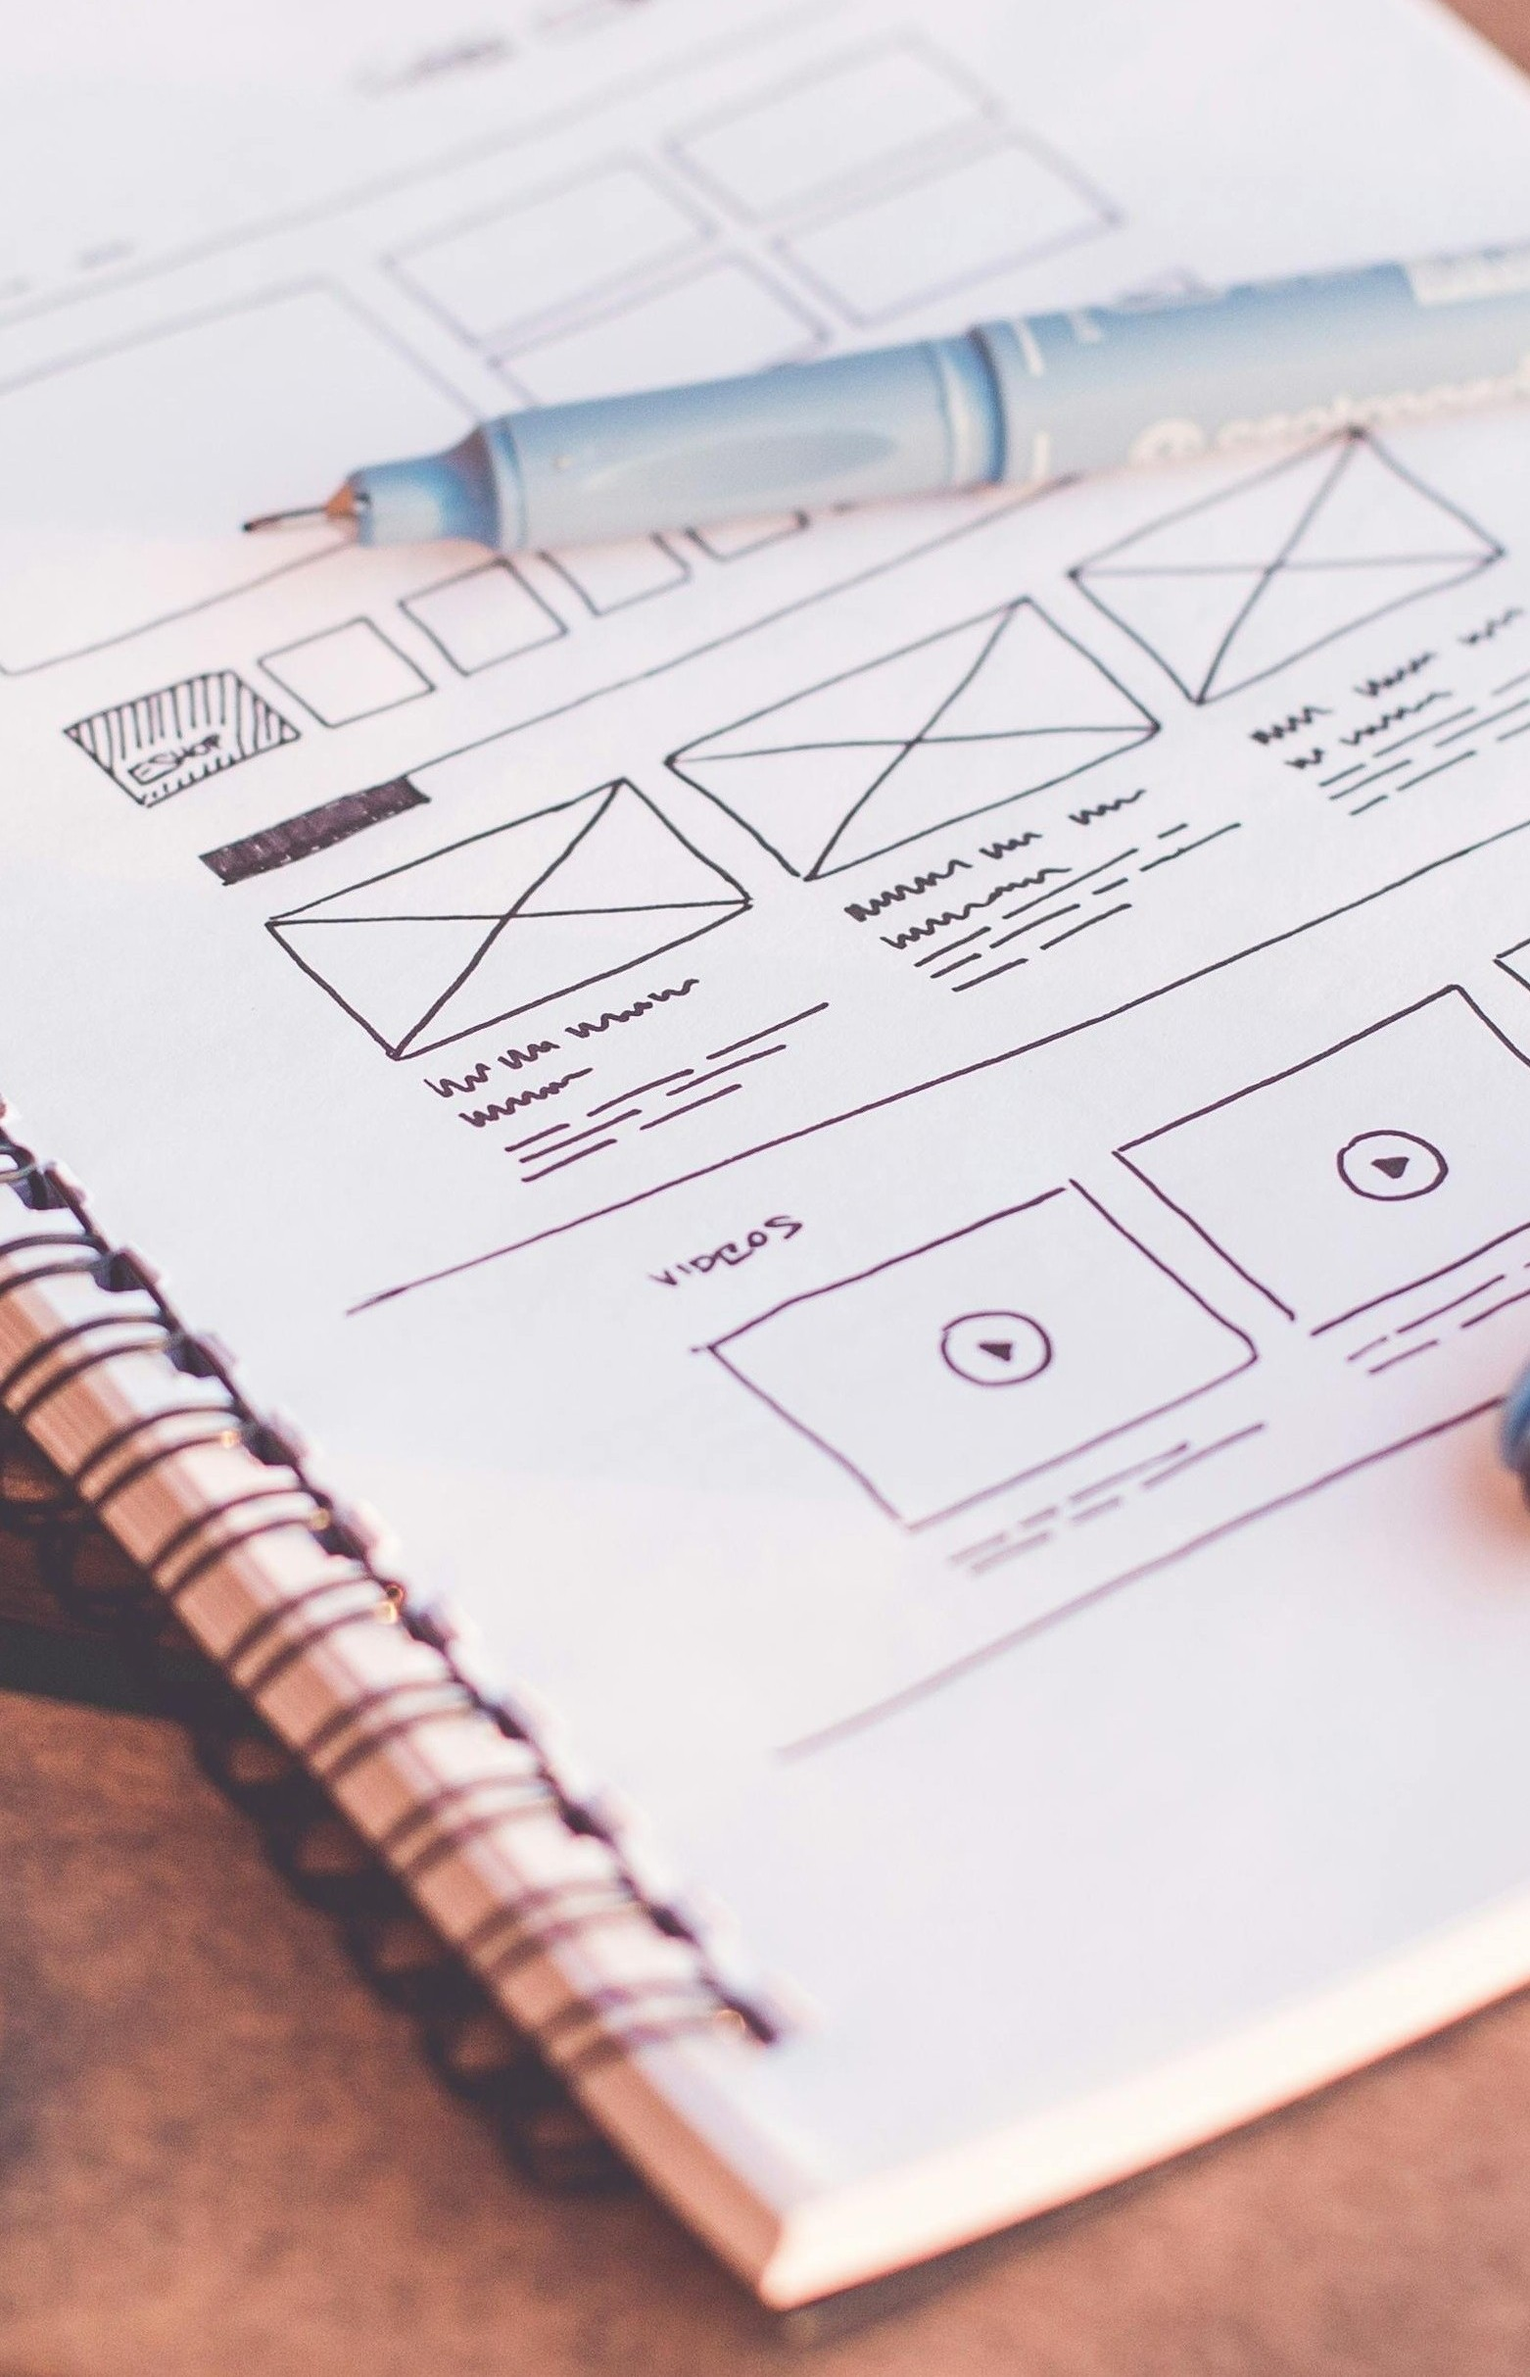
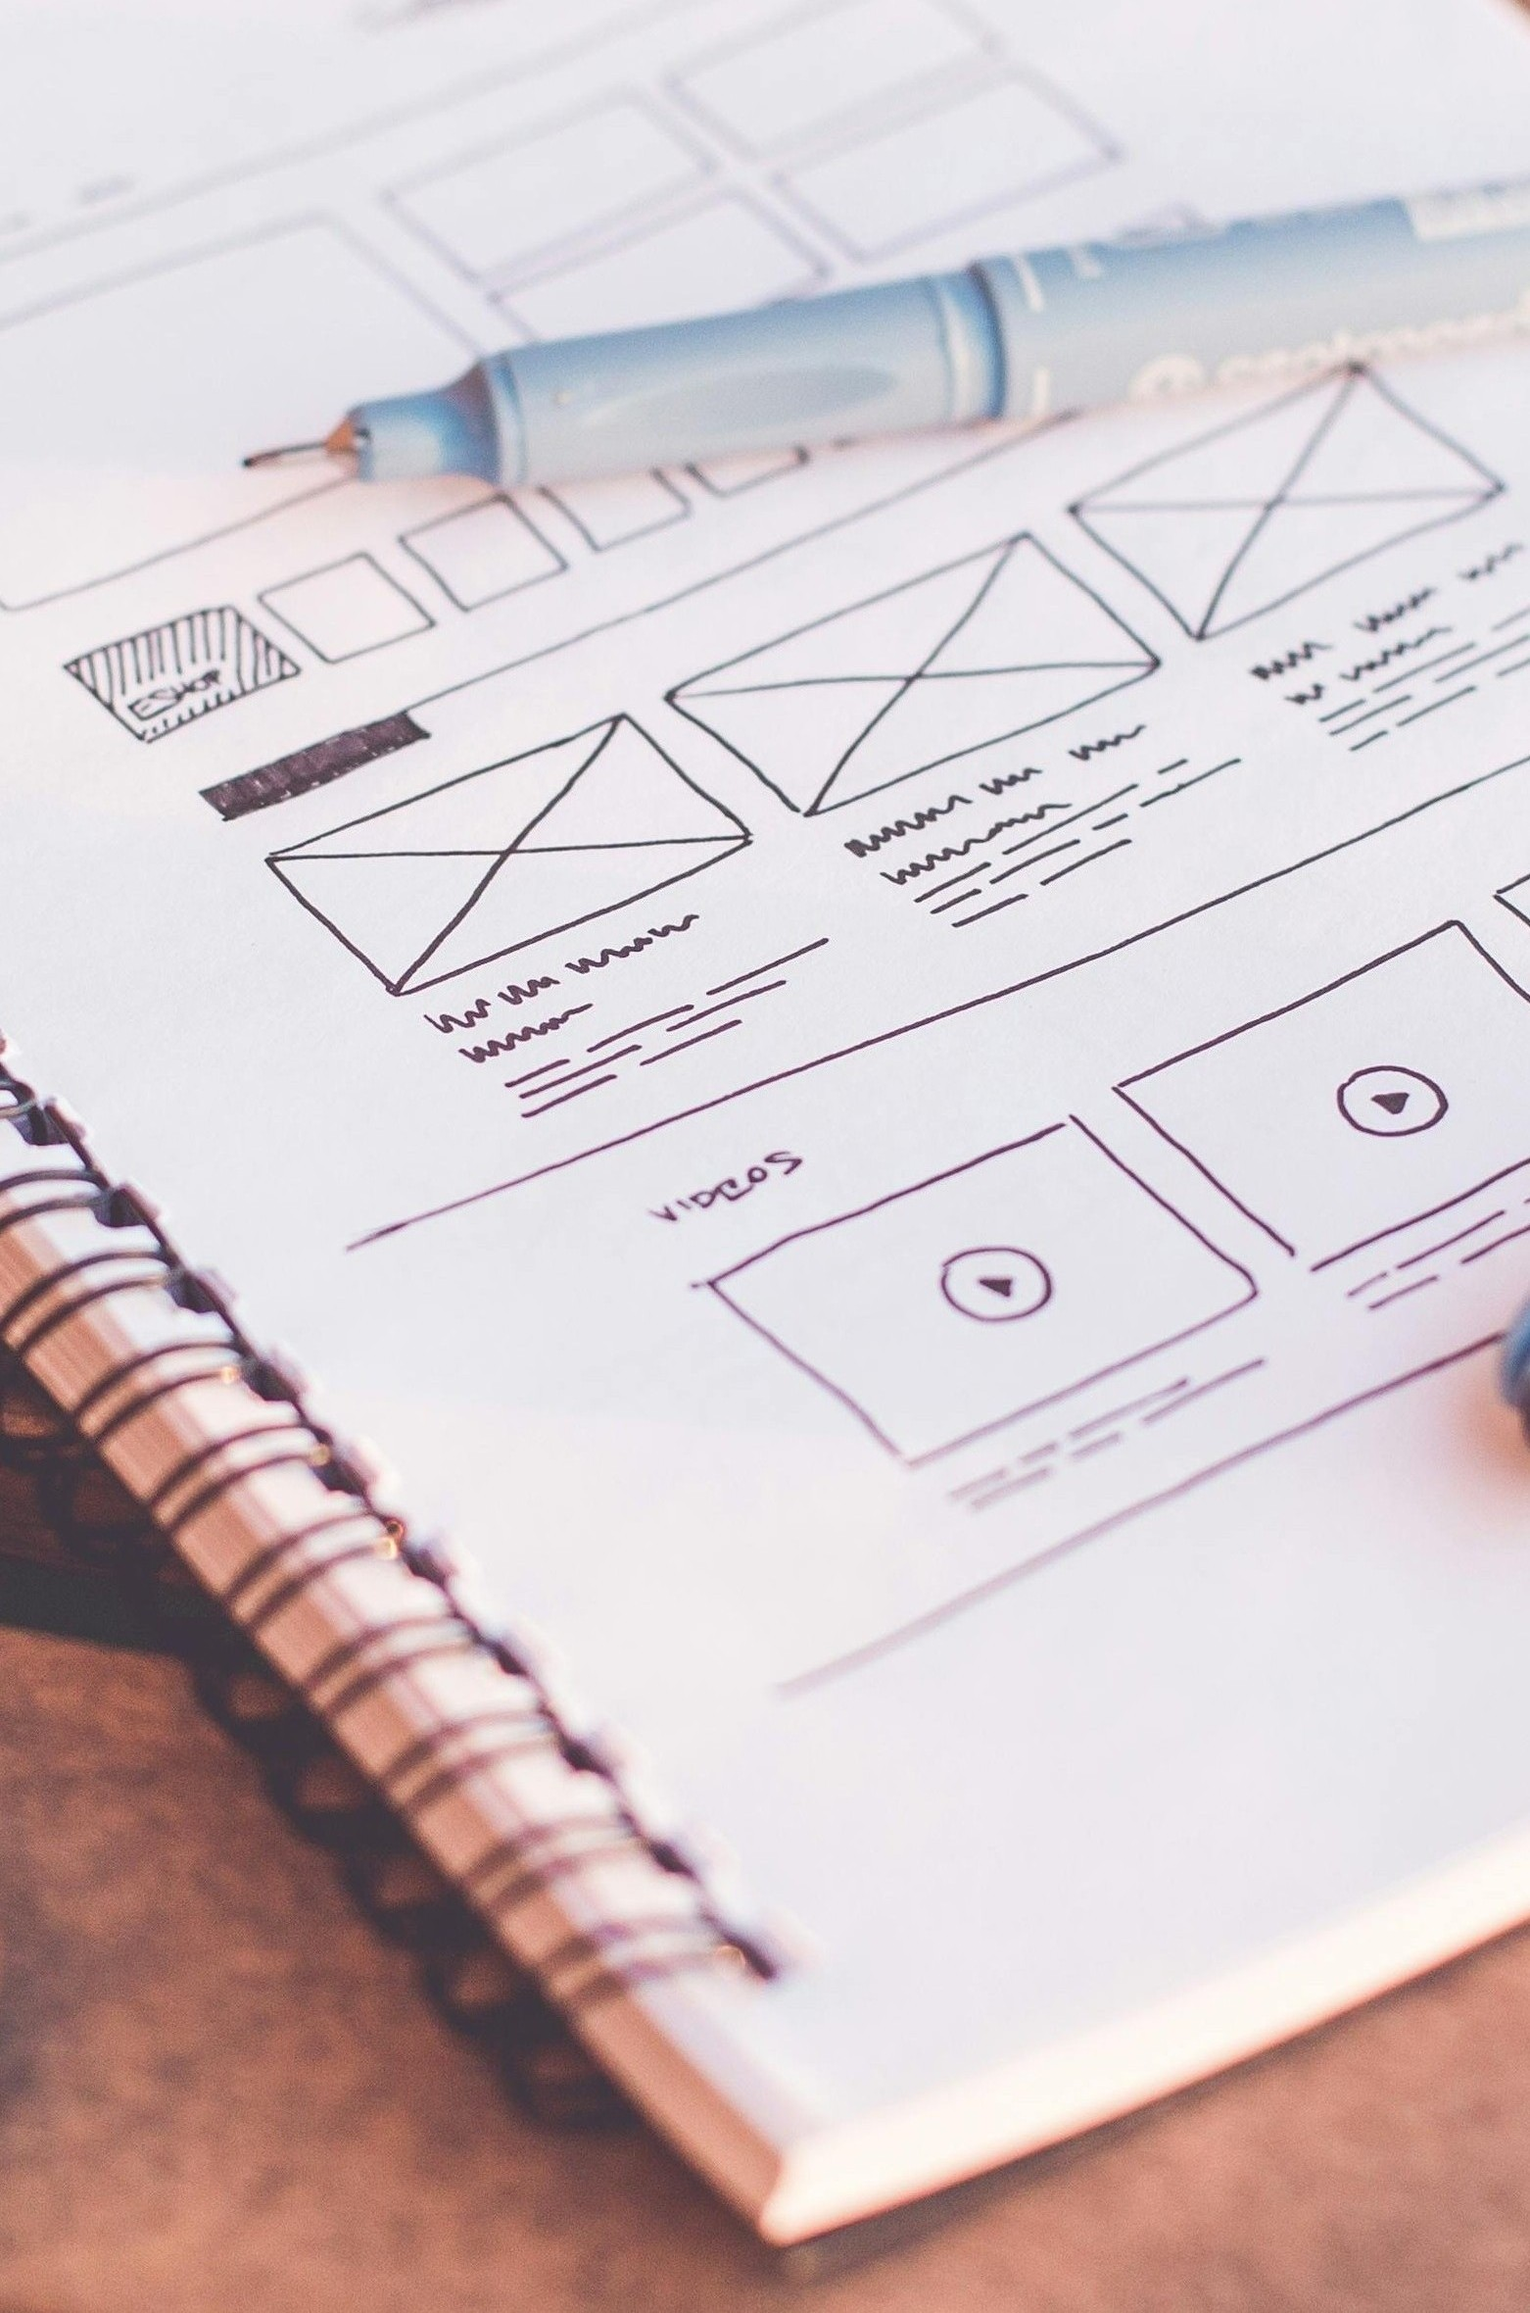
changed thumbnails

diff --git a/index.html b/index.html
@@ -131,8 +131,9 @@
         <div class="buttons">
             <button onclick="window.location.href='ui-ux.html'">UI/UX</button>
             <button onclick="window.location.href='mockups.html'">Branding</button>
-            <button onclick="window.location.href='social-media.html'">Social Media/Marketing</button>
-            <button onclick="window.location.href='editorial-designs.html'">Editorial Designs</button>
+            <button onclick="window.location.href='social-media.html'">Social Media</button>
+            <button onclick="window.location.href='logo.html'">Logofolio</button>
+            <button onclick="window.location.href='editorial-designs.html'">Email Marketing</button>
         </div>
     </div>
 </section>
@@ -624,9 +625,9 @@
     
                       <div class="item">
                         <a href="social-media.html">
-                          <div class="text-center">Social Media & Marketing</div><br>
+                          <div class="text-center" style="color: aliceblue;">Social Media</div><br>
                           <img
-                            src="assets/images/portfolio/social-media.jpg"
+                            src="assets/images/portfolio/media-thumbnail.png"
                             alt="portfolio image" />
                           <div class="isotope-overlay">
                             <span>View projects</span>
@@ -636,10 +637,10 @@
                       
                       
                       <div class="item">
-                        <a href="print-media.html">
-                          <div class="text-center">Print Media</div><br>
+                        <a href="logo.html">
+                          <div class="text-center" style="color: aliceblue;">Logofolio</div><br>
                           <img
-                            src="assets/images/portfolio/flyers-brochure.jpg"
+                            src="assets/images/portfolio/logo-thumbnail.png"
                             alt="portfolio image" />
                           <div class="isotope-overlay">
                             <span>View projects</span>
@@ -657,7 +658,7 @@
     
                       <div class="item">
                         <a href="ui-ux.html">
-                          <div class="text-center">UI / UX</div>
+                          <div class="text-center" style="color: aliceblue;">UI / UX</div>
                           <br>
                           <img
                             src="assets/images/portfolio/uiux.jpeg"
@@ -675,11 +676,11 @@
     
                     <div class="col-sm-4">
                       <div class="item">
-                        <div class="text-center">Editorial Designs</div>
+                        <div class="text-center" style="color: aliceblue;">Email Marketing</div>
                         <br>
                         <a href="editorial-designs.html">
                           <img
-                            src="assets/images/portfolio/newsletters.jpg"
+                            src="assets/images/portfolio/editorial-design-thumbnail.png"
                             alt="portfolio image" />
                           <div class="isotope-overlay">
                             <span>View projects</span>
@@ -689,10 +690,10 @@
                       <!-- /.item -->
                       <div class="item">
                         <a href="mockups.html">
-                          <div class="text-center">Branding</div>
+                          <div class="text-center" style="color: aliceblue;">Branding</div>
                           <br>
                           <img
-                            src="assets/images/portfolio/mokcups-img.webp"
+                            src="assets/images/portfolio/branding-thumbail.png"
                             alt="portfolio image" />
                           <div class="isotope-overlay">
                             <span>View projects</span>

diff --git a/social-media.html b/social-media.html
@@ -253,7 +253,7 @@
     </div>
     <section class="section" id="posts">
       <div>
-        <h1 class="section-title">Instagram / Facebook Posts</h1>
+        <h1 class="section-title">Social Media Posts</h1>
         <br />
   
         <div class="portfolio-grid">
@@ -297,7 +297,7 @@
 
     <section class="section" id="stories">
       <div>
-        <h1 class="section-title">Digital Ads / posters</h1>
+        <h1 class="section-title">Social Media Stories / Posters</h1>
         <br />
   
         <div class="poster-grid">  
@@ -318,6 +318,14 @@
                 />
               </a>
               </div>
+
+              <div class="portfolio-item">
+                <img
+                  src="assets/images/portfolio/projects/social-media/story/sale-ad.gif"
+                  alt="fashion ad"
+                />
+              </a>
+              </div>
   
               <div class="portfolio-item">
                 <img
@@ -327,17 +335,11 @@
               </a>
               </div>
 
-              <div class="portfolio-item">
-                <img
-                  src="assets/images/portfolio/projects/social-media/story/sale-ad.gif"
-                  alt="fashion ad"
-                />
-              </a>
-              </div>
+              
 
               <div class="portfolio-item">
                 <img
-                  src="assets/images/portfolio/projects/social-media/story/bar-flyer.jpg"
+                  src="assets/images/portfolio/projects/social-media/story/desserts-shop-flyer.jpg"
                   alt="bar ad"
                 />
               </a>
@@ -345,7 +347,7 @@
               
               <div class="portfolio-item">
                 <img
-                  src="assets/images/portfolio/projects/social-media/story/music-party-flyer.png"
+                  src="assets/images/portfolio/projects/social-media/story/hotel-flyer.jpg"
                   alt="concert ad"
                 />
               </a>
@@ -357,7 +359,43 @@
                   alt="perfume ad"
                 />
               </a>
-            </div>    
+            </div>
+            
+            
+
+          <div class="portfolio-item">
+            <img
+              src="assets/images/portfolio/projects/social-media/story/music-party-flyer.png"
+              alt="perfume ad"
+            />
+          </a>
+        </div> 
+
+          <div class="portfolio-item">
+            <img
+              src="assets/images/portfolio/projects/social-media/story/art-flyer.jpg"
+              alt="perfume ad"
+            />
+          </a>
+        </div> 
+
+        <div class="portfolio-item">
+          <img
+            src="assets/images/portfolio/projects/social-media/story/bar-flyer.jpg"
+            alt="perfume ad"
+          />
+        </a>
+      </div> 
+
+        <div class="portfolio-item">
+          <img
+            src="assets/images/portfolio/projects/social-media/story/antique-store-flyer.jpg"
+            alt="perfume ad"
+          />
+        </a>
+      </div> 
+
+        
           </div>
     </section>
 

diff --git a/logo.html b/logo.html
@@ -1,0 +1,55 @@
+<!DOCTYPE html>
+<html lang="en">
+  <head>
+    <meta charset="UTF-8" />
+    <meta name="viewport" content="width=device-width, initial-scale=1.0" />
+    <title>Logofolio</title>
+    <style>
+      /* First two images should fit within the screen */
+      .full-screen {
+        width: 100vw;
+        height: 100vh;
+        object-fit: cover;
+        display: block;
+        margin: 0 auto; /* Center align */
+      }
+
+      /* Container for the scrollable image */
+      .scroll-container {
+        width: 80vw;
+        height: 100vh; /* Full viewport height */
+        overflow-y: auto; /* Enables vertical scrolling */
+        margin: 0 auto;
+      }
+
+      .scroll-container img {
+        width: 80vw;
+        height: auto;
+        display: block;
+      }
+    </style>
+  </head>
+  <body>
+    <!-- First image (fits within screen) -->
+    <img
+      class="full-screen"
+      src="assets/images/portfolio/projects/logofolio/first-img.png"
+      alt="First Image"
+    />
+
+    <!-- GIF (fits within screen) -->
+    <img
+      class="full-screen"
+      src="assets/images/portfolio/projects/logofolio/logo-gif-dark.gif"
+      alt="Logo GIF"
+    />
+
+    <!-- Scrollable Full-width Image -->
+    <div class="scroll-container">
+      <img
+        src="assets/images/portfolio/projects/logofolio/logofolio-content.png"
+        alt="Scrollable Image"
+      />
+    </div>
+  </body>
+</html>

diff --git a/editorial-designs.html b/editorial-designs.html
@@ -238,17 +238,17 @@
   />
   </head>
   <body>
-    <div class="navbar">
-      <div class="title">EDITORIAL DESIGNS</div>
+    <!-- <div class="navbar">
+      <div class="title">Email Marketing</div>
       <div class="nav-buttons">
         <button class="dropbtn">
           <a href="#newsletters">NEWSLETTERS</a>
         </button>
         <button class="dropbtn">
-          <a href="#infrographics">INFROGRAPHICS</a>
+          <a href="#infrographics">EMAIL MARKETING</a>
         </button>
       </div>
-    </div>
+    </div> -->
 
     <section id="newsletters">
       <div class="container">
@@ -294,9 +294,9 @@
       </div>
     </section>
 <br>
-    <section id="infrographics">
+    <!-- <section id="infrographics">
       <div class="container">
-        <h1 class="section-title">Infrographics</h1>
+        <h1 class="section-title">Email Marketing</h1>
         <br />
 
         <div class="portfolio-grid">
@@ -307,14 +307,8 @@
               />
             </a>
           </div>
-          <div class="portfolio-item">
-              <img
-                src="assets/images/portfolio/projects/editorial-design/infrographics/infrographics.png"
-                alt="infrographic 2"
-              />
-            </a>
-          </div>
+          
         </div>
       </div>
-    </section> 
+    </section>  -->
 </html>

diff --git a/assets/css/style.css b/assets/css/style.css
@@ -116,7 +116,7 @@ html,body{
 @media (min-width: 1024px) {}
 
 nav.navbar.bootsnav.no-background {
-    background-color: #fff;
+    background-color: #ebebeb;
     border: none;
 }
 
